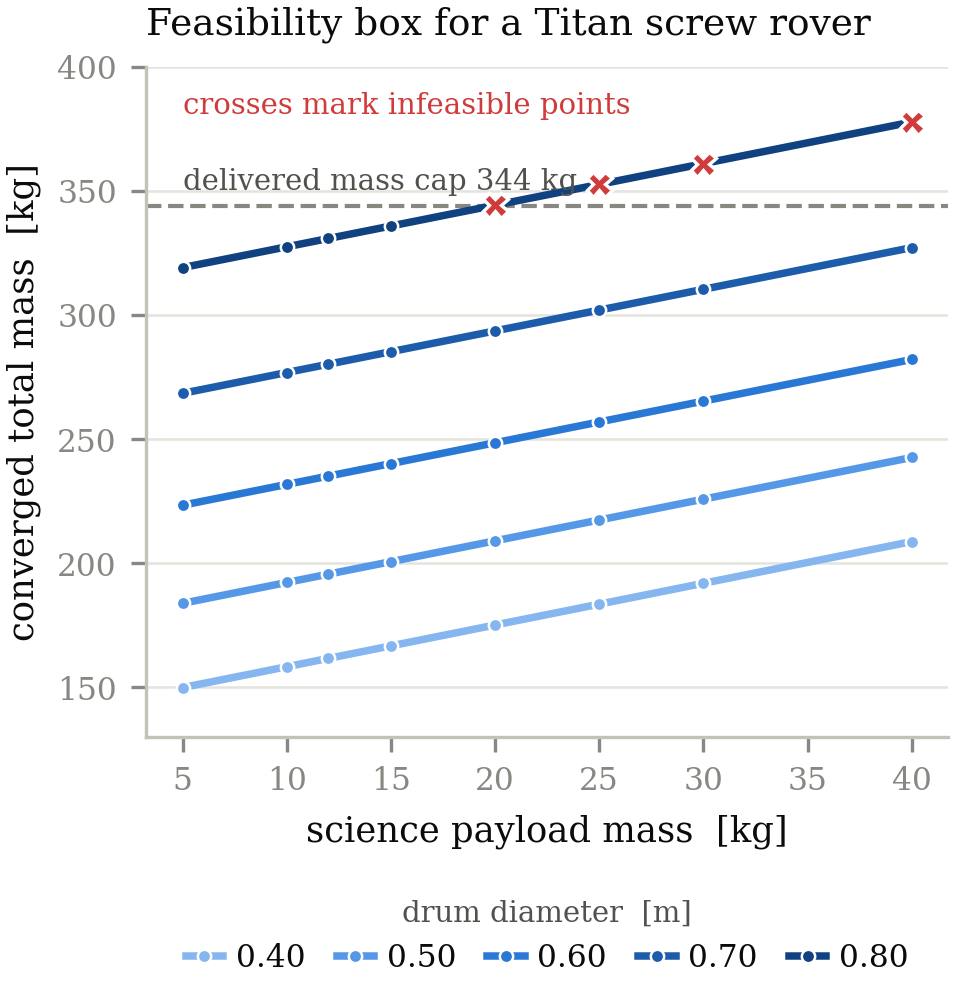
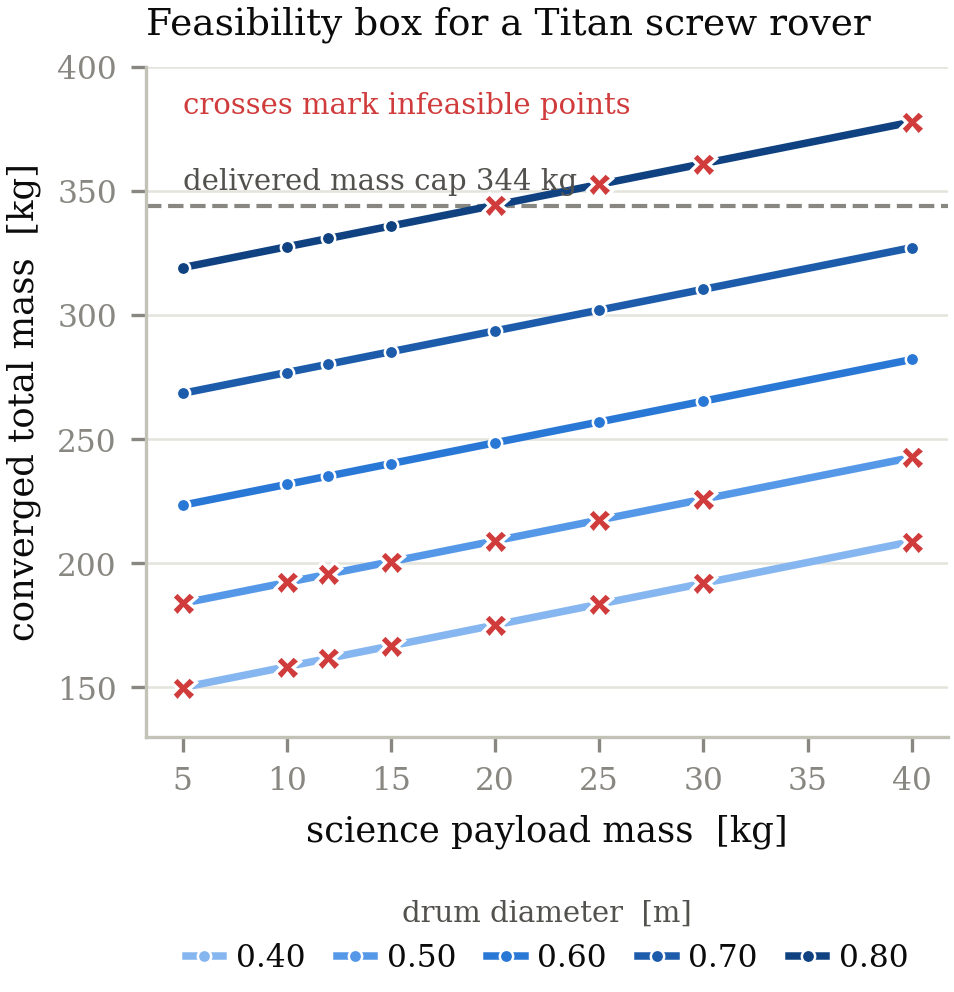
Fix the flotation model and document what it does not cover
The required volume was weight / rho_liquid, but weight is m_total * g in
newtons, so the requirement came out 1.352x too large on Titan. Archimedes
gives rho * V * g = m * g, gravity cancels, and the requirement is a mass:
m_total / rho_liquid. With the factor removed the baseline clears the
screen at 0.679 m3 displaced against 0.556 m3 required, a margin of 1.22,
where before it failed at 0.751 m3 required. Several terrain cases in the
sensitivity table flip back to feasible as a result.

Other changes:

- displaced_volume() replaces the inline expression that hardcoded two
  screws; it now reads geom.n_screws. Still drum cylinders only, which is
  a conservative floor on buoyancy rather than an estimate of it, and the
  docstring says so.
- flotation_vol() takes a mass, returns infinity on a body with no surface
  liquid, and no longer duplicates the loop's arithmetic.
- flotation_margin added to performance, so the trade space shows how far
  a design is from the limit instead of only pass or fail.
- Trade-space sweep keeps the wider numpy range but splices the 0.40 and
  0.60 m baseline diameters back in; arange stepped over both, which left
  the reference design out of its own trade space.
- README and the screw.py docstring no longer claim buoyancy is out of
  scope, and now state what the screen covers: static flotation only, not
  freeboard, trim, stability in waves or hydrodynamic drag.
- Tab indentation, dead commented-out prints and stray trailing whitespace
[…]

diff --git a/sizing/sizing_loop.py b/sizing/sizing_loop.py
@@ -20,9 +20,10 @@ from .mers import (MassModel, DRIVETRAIN_FRACTION_RANGE, drive_module_mass,
                    eps_mass, required_motor_torque, running_gear_mass)
 from .screw import (ScrewGeometry, bulldozing_flag, check_validity,
                     compaction_resistance, contact_width, cost_of_transport,
-                    drawbar_available, kinematics, obstacle_capability,
-                    radius_to_sinkage, rolling_resistance, sinkage,
-                    torque_and_power, traction_limited_slope)
+                    displaced_volume, drawbar_available, flotation_vol,
+                    kinematics, obstacle_capability, radius_to_sinkage,
+                    rolling_resistance, sinkage, torque_and_power,
+                    traction_limited_slope)
 from .terrain import Terrain, TITAN_LUNAR_PROXY
 
 
@@ -187,8 +188,14 @@ def size(mission: Mission,
         notes.append(f"terrain '{terrain.name}' is a proxy, not a measurement: "
                      f"{terrain.evidence}")
 
-    screw_vol=2*(geom.length*math.pi*pow(geom.drum_diameter,2)/4)
-    screw_vol_req=weight/env.liquid_density
+    # Flotation screen. Titan's lakes and its wet shorelines are a credible
+    # place for this vehicle to end up, so the loop reports the volume the
+    # drums displace against the volume it would take to float the converged
+    # mass. Both m^3. The requirement is set by MASS, not weight: gravity
+    # cancels out of Archimedes. See displaced_volume and flotation_vol for
+    # what is counted and what is not.
+    screw_vol = displaced_volume(geom)
+    screw_vol_req = flotation_vol(env, m_total)
 
     masses = {
         "payload": mission.payload_mass,
@@ -246,7 +253,8 @@ def size(mission: Mission,
         "mobility_mass_fraction": m_mobility / m_total,
         "overturning_margin": overturn,
         "screw_vol": screw_vol,
-	"screw_vol_req": screw_vol_req,
+        "screw_vol_req": screw_vol_req,
+        "flotation_margin": screw_vol / screw_vol_req if screw_vol_req > 0 else float("inf"),
     }
     checks = {
         "mass_within_delivered_cap": m_total <= mission.delivered_mass_cap,
@@ -255,12 +263,8 @@ def size(mission: Mission,
         "overturning_margin_ge_2": overturn >= 2.0,
         "mobility_fraction_plausible": 0.15 <= m_mobility / m_total <= 0.60,
         "obstacle_requirement_met": obstacle_capability(geom) >= mission.max_obstacle,
-	"floats_in_methane": screw_vol>=screw_vol_req,
+        "floats_in_methane": screw_vol >= screw_vol_req,
     }
-
-#    print("Available volume=",screw_vol," m3")
-#    print("Required volume=",screw_req," m3")
-
-    return Result(converged, it, m_total, masses, powers, performance, checks, notes,)
+    return Result(converged, it, m_total, masses, powers, performance, checks, notes)
 
    

diff --git a/sizing/screw.py b/sizing/screw.py
@@ -27,8 +27,10 @@ The code flags this rather than extrapolating quietly.
 
 NOT MODELLED, and to be stated as limitations: lateral drift and side slip
 (observed in chen2025 and sagara2025), the switch to wheel-like rolling on
-hard ground (richter2022), buoyancy and hydrodynamic drag, dynamic sinkage,
-multi-pass effects, and the interaction between multiple screws.
+hard ground (richter2022), hydrodynamic drag and thrust in liquid, dynamic
+sinkage, multi-pass effects, and the interaction between multiple screws.
+Static buoyancy IS screened, conservatively, by displaced_volume and
+flotation_vol below; nothing else about a liquid crossing is.
 """
 
 import math
@@ -237,14 +239,40 @@ def obstacle_capability(geom: ScrewGeometry, alpha: float = 0.5) -> float:
     """
     return alpha * geom.outer_diameter
 
-def flotation_vol(env,weight: float) -> float:
-    """volume required to float"""
-    return weight/env.liquid_density
+
+def displaced_volume(geom: ScrewGeometry) -> float:
+    """Volume displaced by the screw drums when fully submerged, m^3.
+
+        V = n_screws * (pi / 4) * D_drum^2 * L
+
+    Drum cylinders only. The helical blades displace a little more, and any
+    hull carried above the drums displaces a great deal more, so this is a
+    deliberately conservative floor on buoyancy rather than an estimate of
+    it. Treat a design that passes on drum volume alone as safe, and one
+    that fails as undecided rather than sunk.
+
+    NOT VALIDATED. No Titan amphibian exists to check this against, and the
+    terrestrial screw amphibians in the database (MSA, ZIL-2906) float on
+    sealed drums whose internal volume is not recorded here.
+    """
+    return geom.n_screws * math.pi * geom.drum_diameter ** 2 / 4.0 * geom.length
 
 
+def flotation_vol(env, mass: float) -> float:
+    """Displaced volume needed to float a vehicle of the given mass, m^3.
 
+    Archimedes: rho_liquid * V * g = m * g, so V = m / rho_liquid. Gravity
+    cancels, so the requirement is the same on Titan as it would be on Earth
+    for the same liquid. Takes a MASS in kg, not a weight in newtons.
 
+    Returns infinity on a body with no surface liquid, so a flotation
+    requirement is never satisfied by accident on a dry world.
 
-
-
-
+    Static flotation only. Freeboard, trim, stability in waves and the
+    hydrodynamic drag of a screw driving itself through liquid are all
+    outside this, and all of them matter before anyone claims the vehicle
+    is amphibious.
+    """
+    if env.liquid_density <= 0.0:
+        return float("inf")
+    return mass / env.liquid_density

diff --git a/run_example.py b/run_example.py
@@ -11,6 +11,7 @@ import csv
 import dataclasses
 import math
 import os
+
 import numpy
 
 from sizing.environment import EARTH, MOON, TITAN
@@ -358,10 +359,13 @@ def main():
               f"{r.performance['contact_pressure_kPa']:9.2f} "
               f"{r.powers['drive_electrical']:9.1f} "
               f"{r.performance['drawbar_margin']:8.2f} {str(r.feasible):>9s}")
+    print()
 
-
-    payloads = numpy.arange(5,50,5) ##[5, 10, 12, 15, 20, 25, 30, 40]
-    diameters = numpy.arange(0.1,1,0.2) ##[0.40, 0.50, 0.60, 0.70, 0.80]
+    # Wide sweep, with the two baseline diameters (0.40 and 0.60 m) spliced
+    # back in. numpy.arange steps straight over both of them, which would
+    # leave the reference design missing from its own trade space.
+    payloads = numpy.arange(5, 50, 5)
+    diameters = numpy.union1d(numpy.arange(0.1, 1.0, 0.2), [0.40, 0.60])
     rows = []
     for d in diameters:
         for pl in payloads:
@@ -369,7 +373,7 @@ def main():
             g = ScrewGeometry(drum_diameter=d, length=2.0 * d, pitch=0.75 * d)
             r = size(m, g, terrain, TITAN, MassModel())
             rows.append({
-                "drum_diameter_m": d, "payload_kg": pl,
+                "drum_diameter_m": round(float(d), 3), "payload_kg": int(pl),
                 "total_mass_kg": round(r.total_mass, 2),
                 "mobility_fraction": round(r.performance["mobility_mass_fraction"], 3),
                 "sinkage_ratio": round(r.performance["sinkage_ratio"], 4),
@@ -377,8 +381,11 @@ def main():
                 "drive_power_W": round(r.powers["drive_electrical"], 1),
                 "drawbar_margin": round(r.performance["drawbar_margin"], 2),
                 "cost_of_transport": round(r.performance["cost_of_transport"], 2),
-                "feasible": r.feasible, "floats_in_methane":r.checks["floats_in_methane"],
-		"screw_vol, m3": round(r.performance["screw_vol"],3),"screw_vol_req, m3": round(r.performance["screw_vol_req"],3),
+                "feasible": r.feasible,
+                "floats_in_methane": r.checks["floats_in_methane"],
+                "screw_displaced_vol_m3": round(r.performance["screw_vol"], 3),
+                "flotation_vol_required_m3": round(r.performance["screw_vol_req"], 3),
+                "flotation_margin": round(r.performance["flotation_margin"], 2),
             })
     with open(os.path.join(OUT, "trade_space.csv"), "w", newline="") as f:
         w = csv.DictWriter(f, fieldnames=list(rows[0].keys()))

diff --git a/README.md b/README.md
@@ -132,10 +132,23 @@ the design.
 **Feasibility checks now applied.** Mass within the delivered cap, radius to
 sinkage at least 6 (rimani_week4_mobility, replacing the looser z below 0.3 D
 rule), thrust available against thrust required, overturning margin at least
-2, mobility fraction between 0.15 and 0.60, and obstacle capability against
-the 100 mm requirement using h_max about 0.5 D. The last one is an analogy
-from wheels, and whether a screw drum climbs like a wheel of the same diameter
-is not established anywhere in `sources.yaml`.
+2, mobility fraction between 0.15 and 0.60, obstacle capability against
+the 100 mm requirement using h_max about 0.5 D, and static flotation in
+liquid methane. The obstacle one is an analogy from wheels, and whether a
+screw drum climbs like a wheel of the same diameter is not established
+anywhere in `sources.yaml`.
+
+**Flotation.** The volume displaced by the drums is compared against
+`m_total / rho_liquid`, with rho_liquid = 423 kg/m3 for liquid methane
+(genta2011). Gravity cancels out of Archimedes, so the requirement is a
+mass, not a weight, and the number is the same as it would be on Earth for
+the same liquid. Only the drum cylinders are counted, not the blades and
+not any hull above them, which makes the screen a conservative floor on
+buoyancy: passing means the vehicle floats on drums alone, failing means
+the question is open rather than settled. Freeboard, trim, stability in
+waves and the drag of driving a screw through liquid are all outside it,
+and all of them matter before anyone calls this vehicle amphibious. The
+baseline clears the screen with about 20 percent margin.
 
 **Validity, stated plainly.** villacres2023 is explicit that Bekker-derived
 scroll models hold only while sinkage stays below the flight height, that is
@@ -146,8 +159,9 @@ extrapolating quietly.
 
 **Not modelled.** Lateral drift and side slip, which chen2025 and sagara2025
 both measure and which is a known screw weakness. The switch to wheel-like
-rolling on hard ground, which richter2022 calls screw slippage. Buoyancy and
-hydrodynamic drag, so a liquid crossing is out of scope. Dynamic sinkage,
+rolling on hard ground, which richter2022 calls screw slippage. Everything
+about a liquid crossing beyond the static flotation screen above, in
+particular hydrodynamic drag, thrust in liquid and stability. Dynamic sinkage,
 multi-pass effects, bulldozing resistance, and the interaction between
 multiple screws. State these as limitations in any paper.
 
